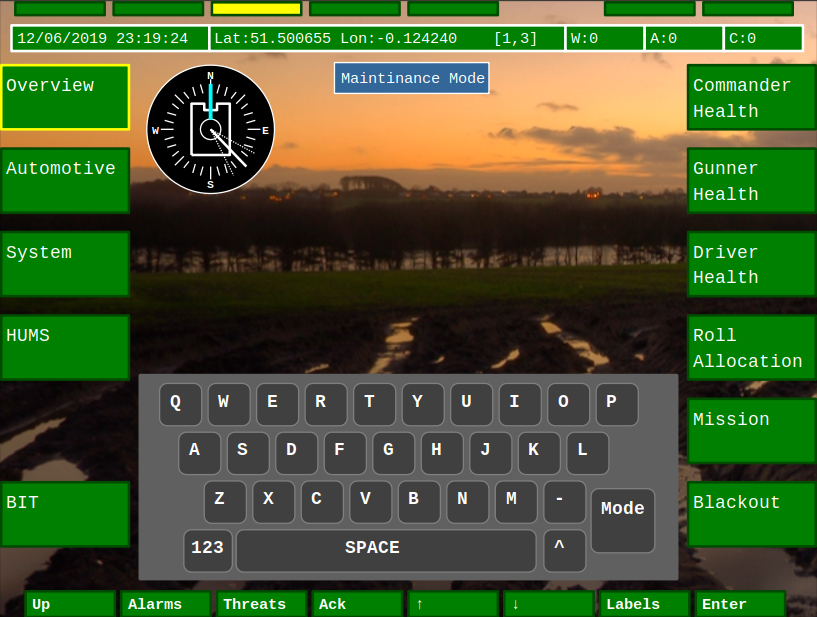
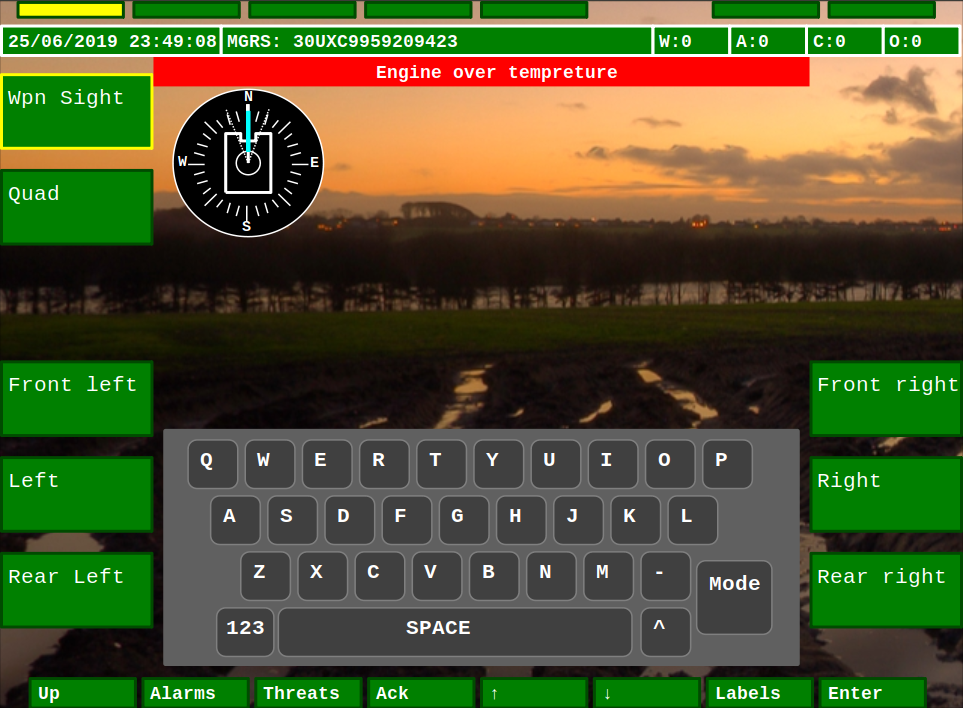
Updated screen shot and switched to MGRS

diff --git a/hmi-display/screenGva.cpp b/hmi-display/screenGva.cpp
@@ -14,6 +14,7 @@
 #include <termios.h>
 #include "screenGva.hpp"
 #include "logGva.hpp"
+#include "debug.hpp"
 
 using namespace std;
 using namespace GeographicLib; 
@@ -85,63 +86,64 @@ namespace gva
     char tmp[MAX_NMEA] = {0};
 
     while (a->active)
+    {
+      int i,ii = 0;
+      t = time (NULL);
+      tm = localtime (&t);
+      sprintf (a->clockString, "%02d/%02d/%02d %02d:%02d:%02d", tm->tm_mday,
+               tm->tm_mon + 1, tm->tm_year + 1900, tm->tm_hour, tm->tm_min,
+               tm->tm_sec);
+      a->screen->refresh ();
+      if (*a->gps > 0) 
       {
-        int i,ii = 0;
-        t = time (NULL);
-        tm = localtime (&t);
-        sprintf (a->clockString, "%02d/%02d/%02d %02d:%02d:%02d", tm->tm_mday,
-                 tm->tm_mon + 1, tm->tm_year + 1900, tm->tm_hour, tm->tm_min,
-                 tm->tm_sec);
-        a->screen->refresh ();
-        if (*a->gps > 0) 
-        {
-          i=0;
-          tcflush(*a->gps,TCIOFLUSH);
-          read(*a->gps, &buffer[0], 1);
+        i=0;
+        tcflush(*a->gps,TCIOFLUSH);
+        read(*a->gps, &buffer[0], 1);
 
-          memset(buffer, 0, MAX_NMEA);
-          while (buffer[0]!='$') read(*a->gps, &buffer[0], 1);
-          while (buffer[i++]!='\n') {
-            ii = read(*a->gps, &c, 1);
-            if (ii==1) {
-               buffer[i]=c;
-  //             printf("0x%02x ", c);
-             }
-            if (i==MAX_NMEA) break;
-          }
-          buffer[i-1]=0;
-          sprintf(tmp, "GPS NMEA %s", buffer);
-          logGva::log (tmp, LOG_INFO);
+        memset(buffer, 0, MAX_NMEA);
+        while (buffer[0]!='$') read(*a->gps, &buffer[0], 1);
+        while (buffer[i++]!='\n') {
+          ii = read(*a->gps, &c, 1);
+          if (ii==1) {
+             buffer[i]=c;
+//             printf("0x%02x ", c);
+           }
+          if (i==MAX_NMEA) break;
+        }
+        buffer[i-1]=0;
+        sprintf(tmp, "GPS NMEA %s", buffer);
+        logGva::log (tmp, LOG_INFO);
 
-          sprintf(tmp, "%s\r\n", buffer);
-          a->info->lon = a->location->lon;
-          a->info->lat = a->location->lat;
-          nmea_parse(a->parser, tmp, (int)strlen(tmp), a->info);
-          if ( a->info->lon && a->info->lat)
-          {
-            a->info->lat = toDegrees(a->info->lat);
-            a->info->lon = toDegrees(a->info->lon);
-            switch (a->location->locationFormat) {
-            case LOCATION_FORMAT_LONG_LAT:
-              break;
-              sprintf(a->locationString, "Lat:%05.06f Lon:%05.06f [%d,%d]", a->info->lat,
-                    a->info->lon, a->info->sig, a->info->fix);
-            case LOCATION_FORMAT_MGRS:
-              {
-                int zone;
-                bool northp;
-                double x, y;
-                UTMUPS::Forward(a->info->lat, a->info->lon, zone, northp, x, y);
-                string mgrs;
-                MGRS::Forward(zone, northp, x, y, a->info->lat, 5, mgrs);
-                sprintf(a->locationString, "MGRS: %s", mgrs.c_str());
-              }
-              break;
-            }
-          }
-        }        
-        usleep (1000000);
+        sprintf(tmp, "%s\r\n", buffer);
+        a->info->lon = a->location->lon;
+        a->info->lat = a->location->lat;
+        nmea_parse(a->parser, tmp, (int)strlen(tmp), a->info);
+        a->info->lat = toDegrees(a->info->lat);
+        a->info->lon = toDegrees(a->info->lon);
       }
+      
+      if ( a->info->lon && a->info->lat)
+      {
+        switch (a->location->locationFormat) {
+        case LOCATION_FORMAT_LONG_LAT:
+          break;
+          sprintf(a->locationString, "Lat:%05.06f Lon:%05.06f [%d,%d]", a->info->lat,
+                a->info->lon, a->info->sig, a->info->fix);
+        case LOCATION_FORMAT_MGRS:
+          {
+            int zone;
+            bool northp;
+            double x, y;
+            UTMUPS::Forward(a->info->lat, a->info->lon, zone, northp, x, y);
+            string mgrs;
+            MGRS::Forward(zone, northp, x, y, a->info->lat, 5, mgrs);
+            sprintf(a->locationString, "MGRS: %s", mgrs.c_str());
+          }
+          break;
+        }
+      }        
+      usleep (1000000);
+    }
   }
 
   void
@@ -157,6 +159,8 @@ namespace gva
     m_args->gps = &m_gps;
     m_args->screen = this;
     m_args->location = &barData->location;
+    m_args->info->lon = DUMMY_LON;
+    m_args->info->lat = DUMMY_LAT;
     
     /* Launch clock thread */
     if (pthread_create (&m_clock_thread, NULL, clockUpdate, (void *) m_args))

diff --git a/hmi-display/debug.hpp b/hmi-display/debug.hpp
@@ -1,6 +1,8 @@
 #ifndef DEBUG_HPP
 #define DEBUG_HPP
 
+#define DUMMY_LON -0.124240 
+#define DUMMY_LAT 51.500655
 #define TRACE_POINT cout << "Function : " << __FUNCTION__ << ", Line : " << __LINE__ << "\n"
 
 #include <stdio.h>
